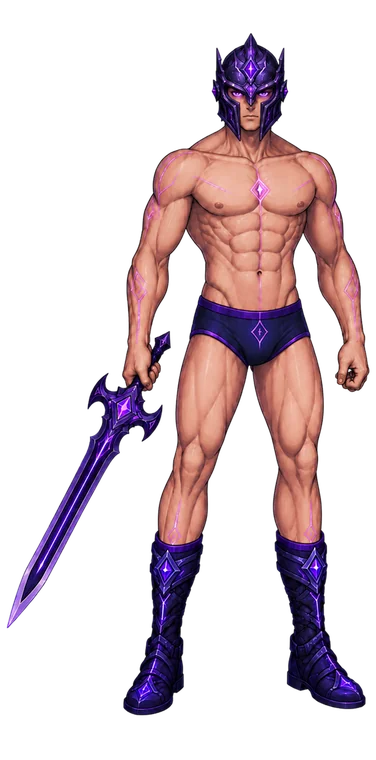
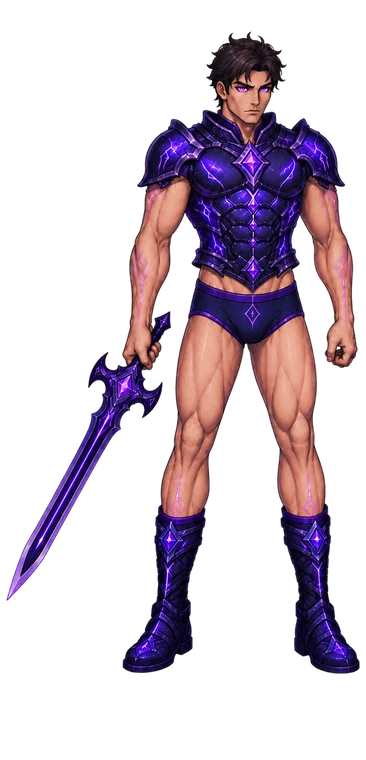
fix(rpg): hero pose never shows unequipped gear
The Home hero could display gear the player hadn't equipped (e.g. armor or a
helmet with an empty slot). Two causes, both fixed:

1. Several male 3-piece pose tags were wrong (verified each pose by its actual
   visible gear: 679=W+H+A, 681=W+H+B, 683=W+A+B; female re-checked too).
2. The resolver picked "closest" poses that could include extra gear. It is
   now SUBSET-ONLY: a pose is eligible only if every piece it shows is
   equipped, so unequipped gear can never appear. Among eligible subsets it
   maximises coverage and keeps the equipped weapon visible.

Verified the invariant (pose gear ⊆ equipped) for all 16 combos, both genders,
and in-browser for the reported weapon+helmet+boots case (now bare chest).

diff --git a/app/components/rpg/rpgAssets.js b/app/components/rpg/rpgAssets.js
@@ -106,7 +106,7 @@ export function arenaFor(bossId) {
 
 export const HERO_POSE_MASKS = {
   male: [0, 1, 2, 3, 4, 5, 6, 7, 8, 9, 10, 11, 12, 13, 14],
-  female: [0, 1, 2, 4, 5, 6, 7, 8, 9, 10, 11, 12, 13, 14, 15],
+  female: [0, 1, 2, 4, 5, 6, 7, 8, 9, 12, 13, 14, 15],
 };
 
 const popcount = (n) => {
@@ -125,21 +125,22 @@ export function heroPoseFor(gender, equipment) {
   const g = gender === "female" ? "female" : "male";
   const avail = HERO_POSE_MASKS[g];
   const want = equipMask(equipment);
+  // Exact pose for the equipped set, when it exists.
   let best = 0;
   if (avail.includes(want)) {
     best = want;
   } else {
-    // Score each available pose: reward matched equipped pieces, penalise gear
-    // the pose shows that isn't actually equipped; tie-break toward more pieces.
-    let bestScore = -Infinity;
+    // SUBSET-ONLY: a pose is eligible only when every piece it shows is
+    // actually equipped (m has no bit outside `want`). This guarantees the
+    // hero can never display gear the player hasn't equipped. Among eligible
+    // poses pick the one covering the most equipped pieces (mask 0 is always
+    // eligible, so there is always a result).
+    let bestScore = -1;
     for (const m of avail) {
-      // Reward matched pieces, penalise gear shown-but-not-equipped, tie-break
-      // toward more pieces and toward keeping the weapon visible when equipped.
-      const score =
-        popcount(m & want) * 3 -
-        popcount(m & ~want) * 2 +
-        popcount(m) * 0.1 +
-        (m & want & 8 ? 0.5 : 0);
+      if ((m & ~want) !== 0) continue; // shows gear that isn't equipped — skip
+      // Coverage dominates; among equal-coverage subsets prefer one that keeps
+      // the (equipped) weapon visible — still never adds unequipped gear.
+      const score = popcount(m & want) * 2 + (m & 8 ? 1 : 0);
       if (score > bestScore) {
         bestScore = score;
         best = m;
